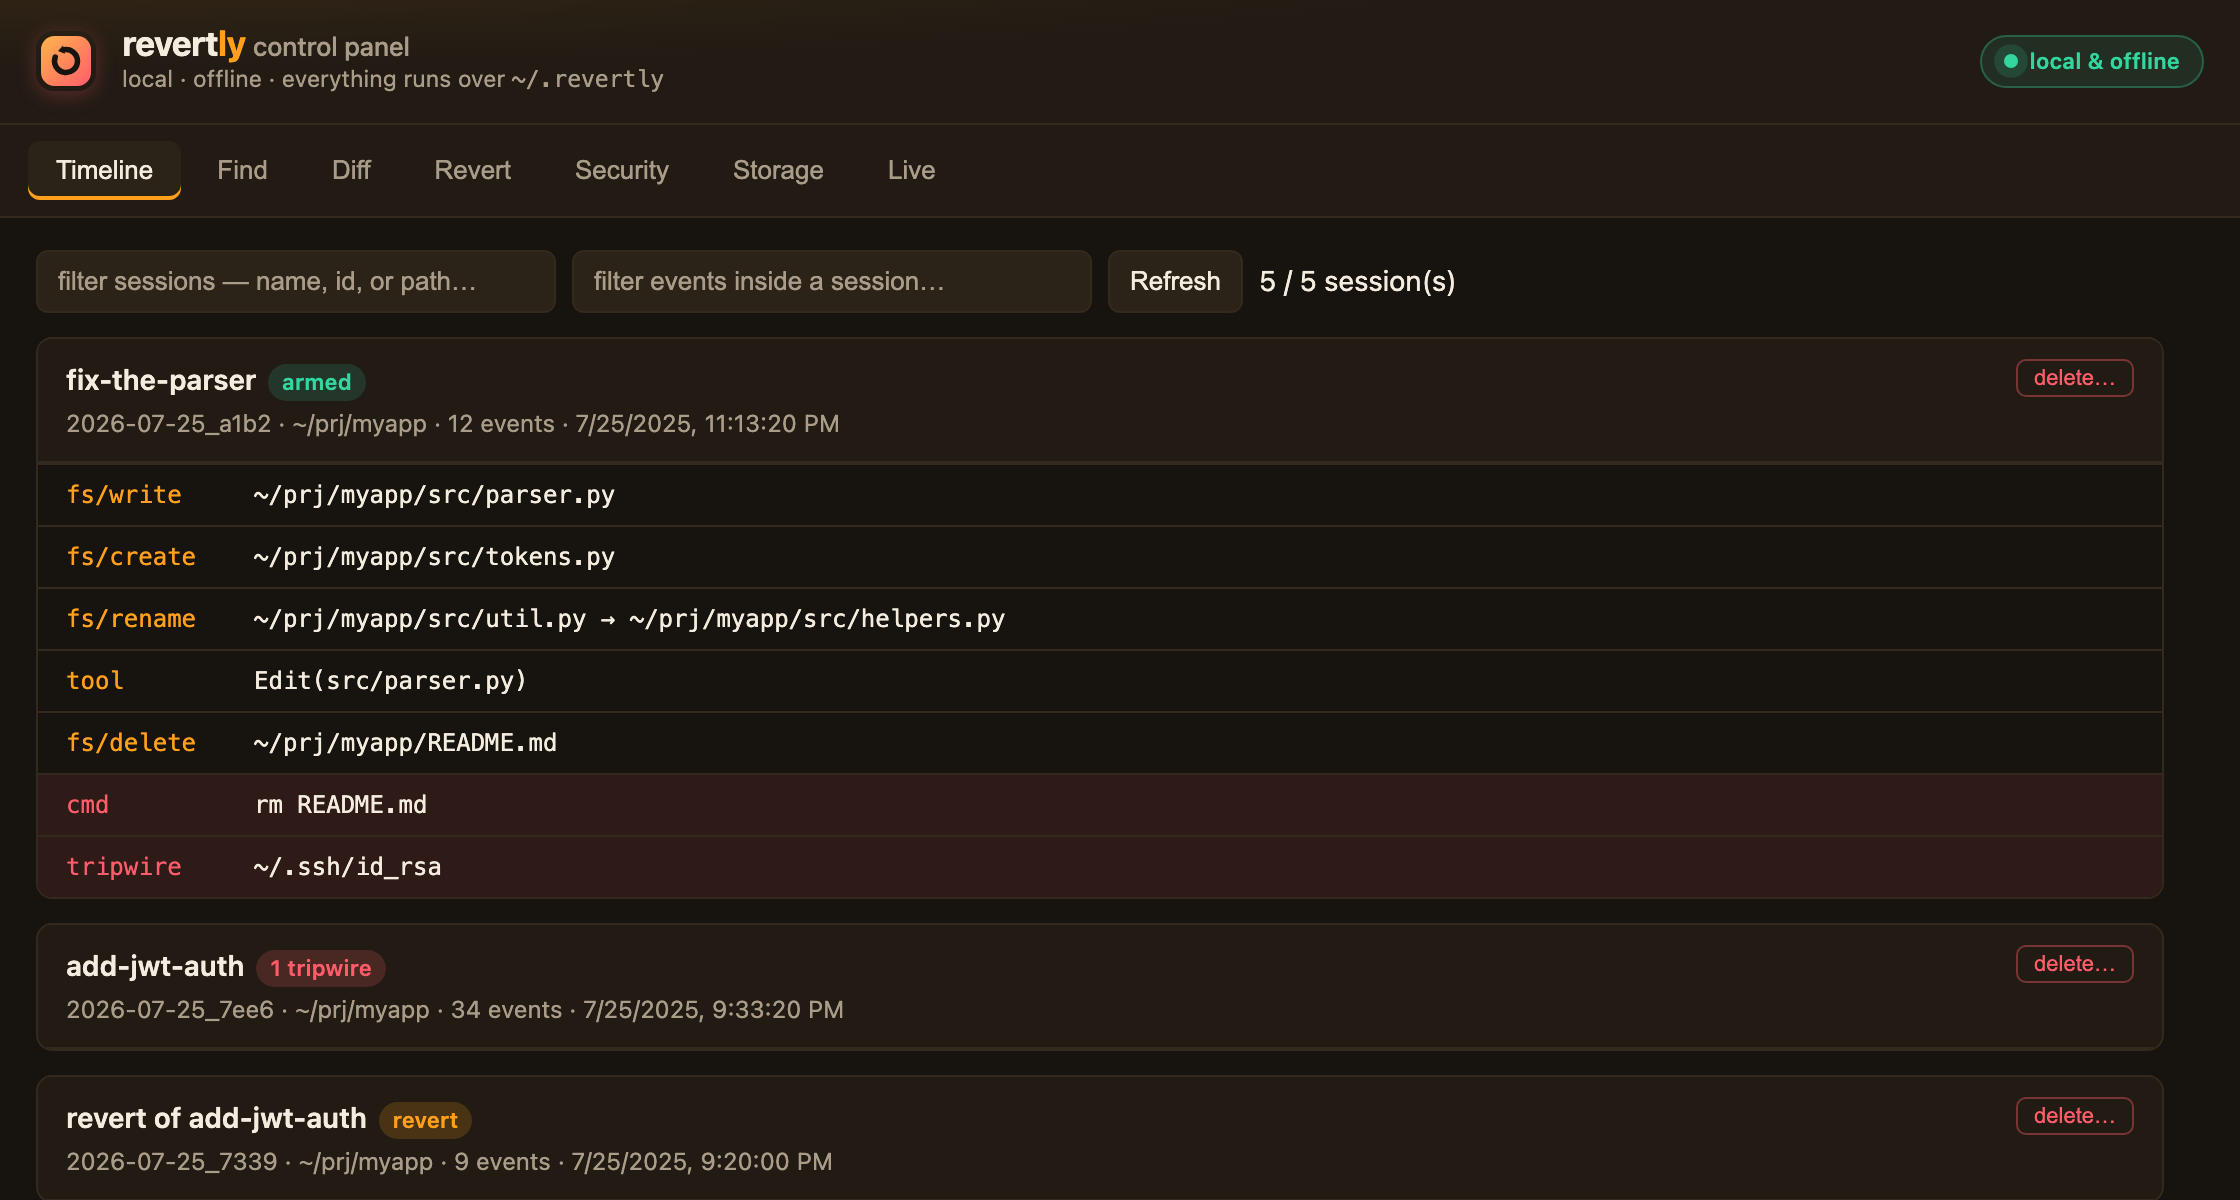
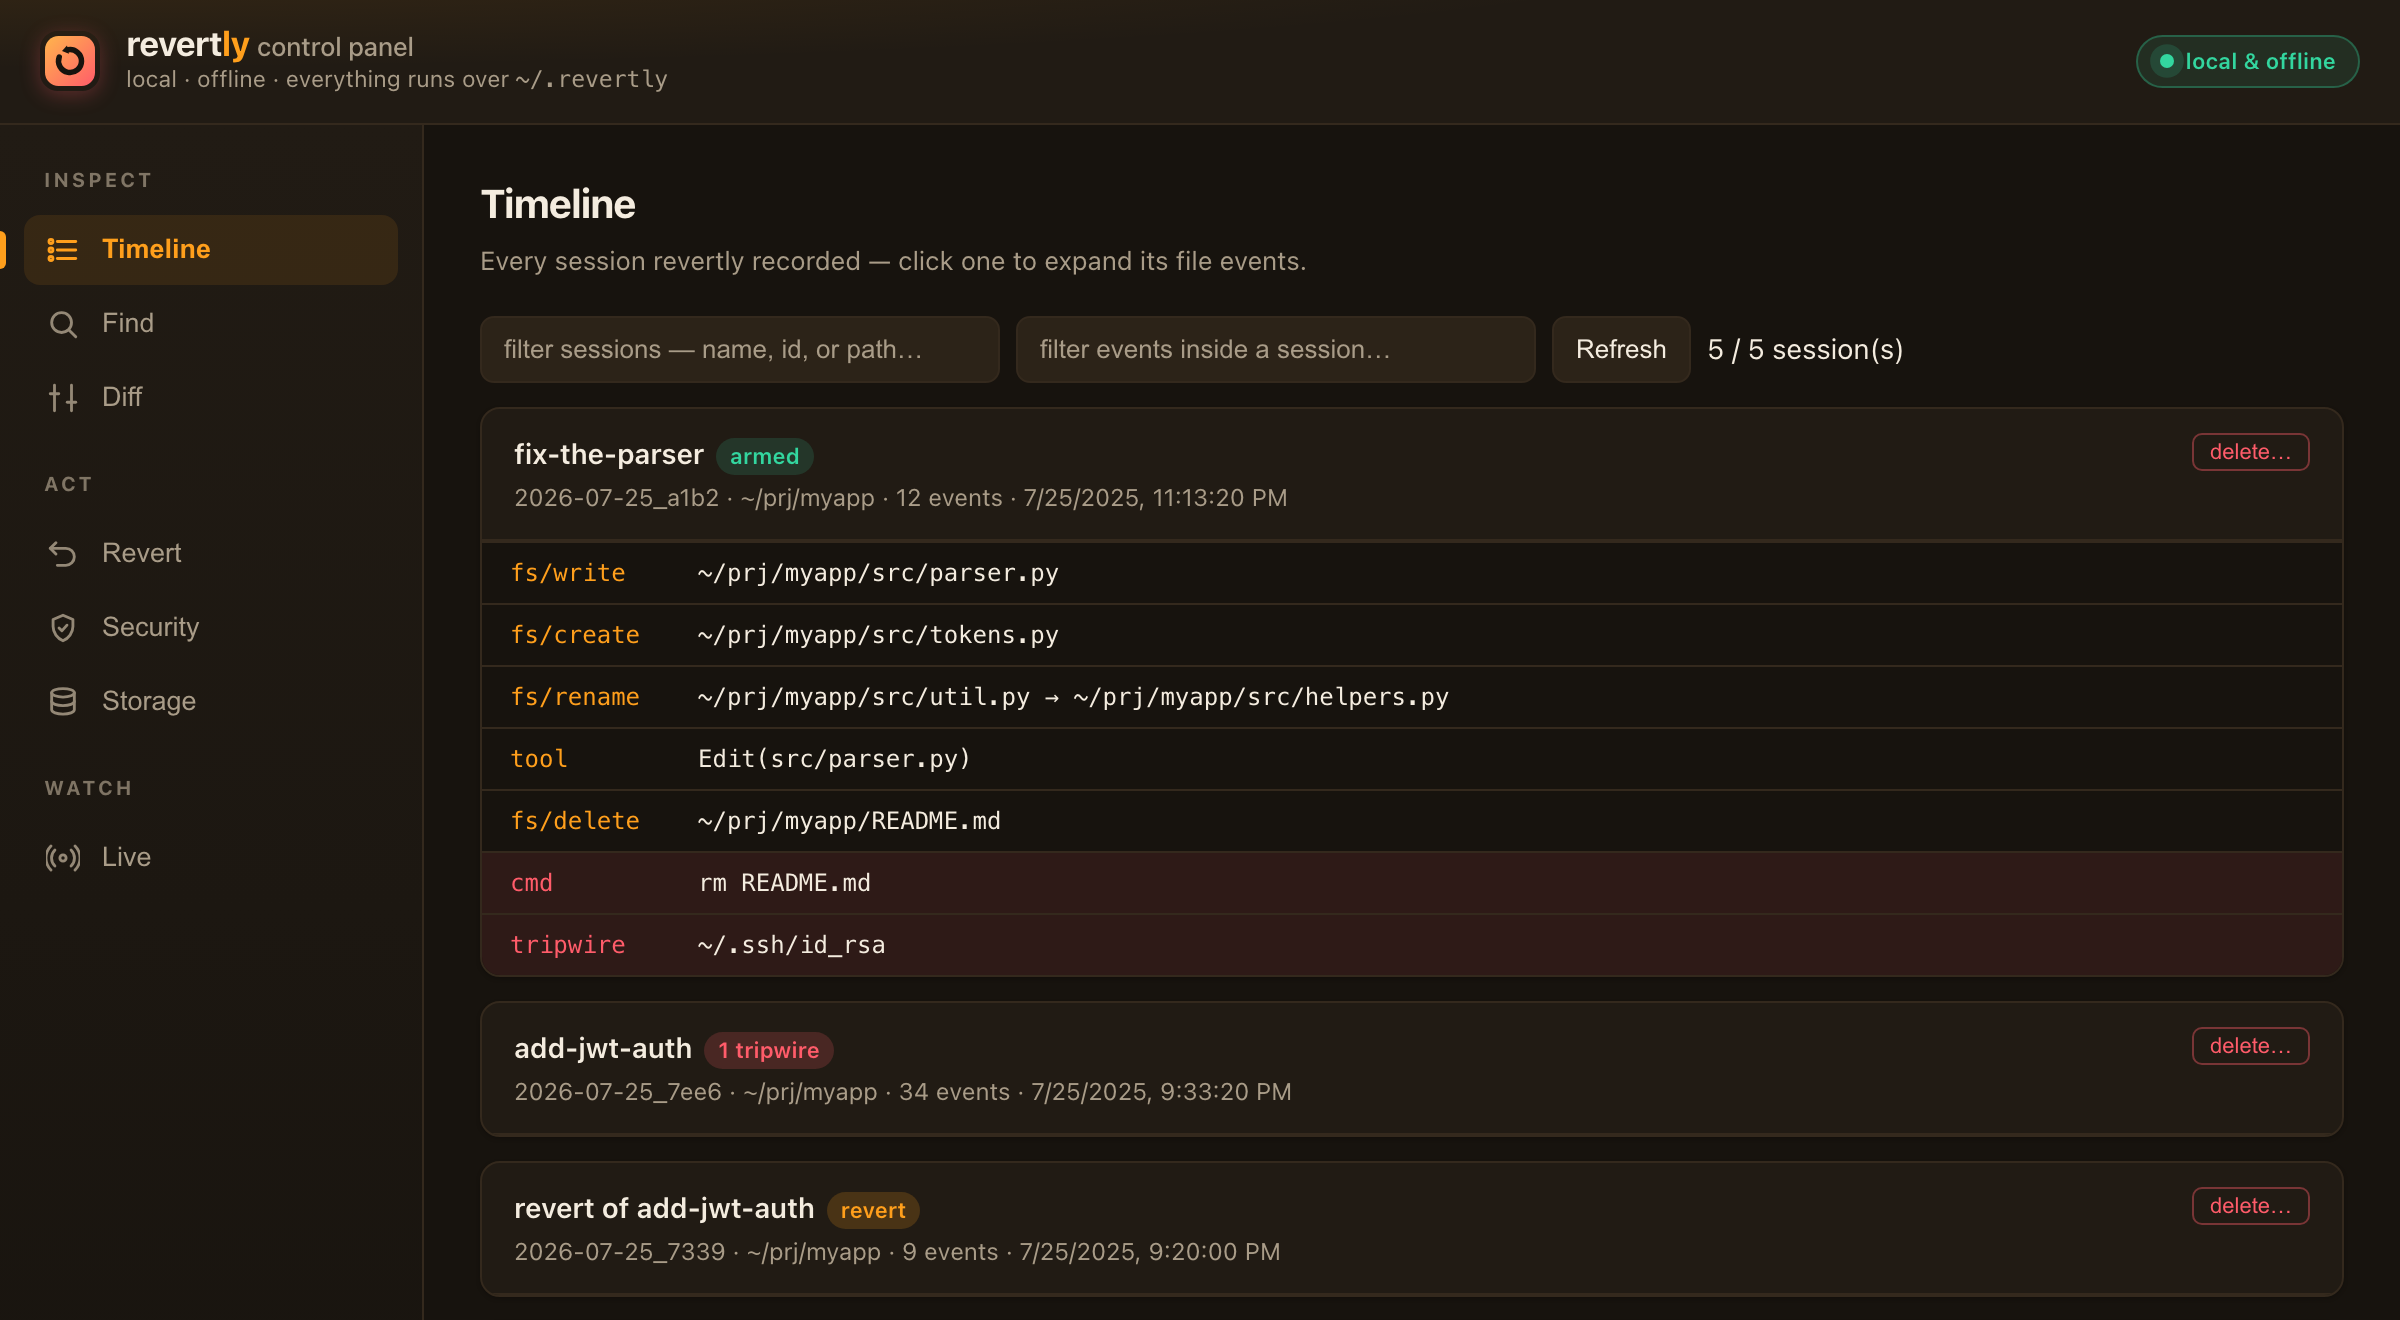
UI: professional facelift — sidebar app shell + page headers
Beyond the palette rebrand, restructure the control panel to read like a
real product dashboard:

- left sidebar navigation grouped (Inspect / Act / Watch) with inline icons,
  amber active-accent, and a footer note; replaces the flat top-tab bar
- per-view page header (title + one-line description) driven by a PAGES map
- elevated cards, refined inputs/buttons with hover + focus states,
  custom scrollbars, selection color, font smoothing
- responsive: sidebar collapses to a scrollable top bar under 720px
- refresh docs/assets/panel.png to the new layout

Self-contained, no CDN. All 228 tests pass.

diff --git a/revertly/ui/index.html b/revertly/ui/index.html
@@ -18,9 +18,10 @@
     margin: 0; background: var(--bg); color: var(--fg);
     font: 14px/1.5 -apple-system, BlinkMacSystemFont, "Segoe UI", sans-serif;
   }
+  body { min-height: 100vh; display: flex; flex-direction: column; }
   header {
-    padding: 13px 18px; background: var(--panel); border-bottom: 1px solid var(--line);
-    display: flex; align-items: center; gap: 13px;
+    padding: 13px 20px; background: var(--panel); border-bottom: 1px solid var(--line);
+    display: flex; align-items: center; gap: 13px; position: sticky; top: 0; z-index: 20;
     background-image: radial-gradient(120% 160% at 0% -40%, rgba(255,159,28,.10), transparent 60%);
   }
   header .logo { width: 30px; height: 30px; border-radius: 9px; flex: none;
@@ -36,18 +37,44 @@
   header .pill .dot { width: 7px; height: 7px; border-radius: 50%; background: var(--ok);
     box-shadow: 0 0 0 0 rgba(51,214,159,.6); animation: pulsedot 2.2s ease-out infinite; }
   @keyframes pulsedot { 0% { box-shadow: 0 0 0 0 rgba(51,214,159,.55); } 70%,100% { box-shadow: 0 0 0 7px rgba(51,214,159,0); } }
-  nav { display: flex; gap: 4px; padding: 8px 14px; background: var(--panel); border-bottom: 1px solid var(--line); }
+
+  /* app shell: sidebar + content */
+  .shell { display: flex; flex: 1; align-items: stretch; }
+  nav { flex: none; width: 212px; padding: 16px 12px; border-right: 1px solid var(--line);
+    background: linear-gradient(180deg, var(--panel), var(--bg)); display: flex; flex-direction: column; gap: 2px; }
+  nav .navlabel { font-size: 10px; letter-spacing: 1.4px; text-transform: uppercase;
+    color: var(--muted); opacity: .7; padding: 4px 10px 8px; font-weight: 700; }
   nav button {
-    background: transparent; color: var(--muted); border: 0; padding: 7px 14px;
-    border-radius: 6px; cursor: pointer; font-size: 13px;
+    display: flex; align-items: center; gap: 11px; width: 100%; text-align: left;
+    background: transparent; color: var(--muted); border: 0; padding: 9px 11px;
+    border-radius: 8px; cursor: pointer; font-size: 13.5px; font-weight: 500;
+    position: relative;
   }
+  nav button svg { width: 17px; height: 17px; flex: none; stroke: currentColor; opacity: .85; }
   nav button:hover { color: var(--fg); background: var(--panel2); }
-  nav button.active { color: var(--fg); background: var(--panel2); box-shadow: inset 0 -2px 0 var(--accent); }
-  main { padding: 16px 18px; max-width: 1100px; }
+  nav button.active { color: var(--accent); background: rgba(255,159,28,.10); font-weight: 600; }
+  nav button.active::before { content: ""; position: absolute; left: -12px; top: 8px; bottom: 8px;
+    width: 3px; border-radius: 0 3px 3px 0; background: var(--accent); }
+  nav button.active svg { opacity: 1; }
+  .side-spacer { flex: 1; }
+  nav .navnote { padding: 10px; font-size: 11px; color: var(--muted); line-height: 1.5;
+    border-top: 1px solid var(--line); margin-top: 8px; }
+  main { flex: 1; padding: 24px 28px; max-width: 1120px; min-width: 0; }
+  .page-head { margin-bottom: 18px; }
+  .page-head h2 { margin: 0 0 4px; font-size: 20px; font-weight: 700; letter-spacing: -.3px; }
+  .page-head p { margin: 0; color: var(--muted); font-size: 13px; }
+  @media (max-width: 720px) {
+    .shell { flex-direction: column; }
+    nav { width: auto; flex-direction: row; overflow-x: auto; border-right: 0;
+      border-bottom: 1px solid var(--line); padding: 8px; }
+    nav .navlabel, nav .side-spacer, nav .navnote { display: none; }
+    nav button.active::before { display: none; }
+  }
   .tab { display: none; }
   .tab.active { display: block; }
-  .card { background: var(--panel); border: 1px solid var(--line); border-radius: 8px; margin: 0 0 12px; overflow: hidden; }
-  .row { padding: 10px 14px; border-bottom: 1px solid var(--line); cursor: pointer; }
+  .card { background: var(--panel); border: 1px solid var(--line); border-radius: 10px; margin: 0 0 12px;
+    overflow: hidden; box-shadow: 0 1px 2px rgba(0,0,0,.22); }
+  .row { padding: 12px 16px; border-bottom: 1px solid var(--line); cursor: pointer; transition: background .12s; }
   .row:last-child { border-bottom: 0; }
   .row:hover { background: var(--panel2); }
   .row .name { font-weight: 600; }
@@ -67,15 +94,16 @@
   .ev.flag .k { color: var(--alert); }
   select, input[type=text], button.act {
     background: var(--panel2); color: var(--fg); border: 1px solid var(--line);
-    border-radius: 6px; padding: 7px 10px; font-size: 13px;
+    border-radius: 7px; padding: 8px 11px; font-size: 13px;
   }
   input[type=text] { min-width: 260px; }
   input[type=text]::placeholder { color: var(--muted); }
   button.act { cursor: pointer; transition: border-color .12s, background .12s, color .12s; }
-  button.act:hover { border-color: var(--accent); }
+  button.act:hover { border-color: var(--accent); color: var(--fg); }
   select:focus, input[type=text]:focus { outline: none; border-color: var(--accent);
     box-shadow: 0 0 0 3px rgba(255,159,28,.14); }
   button.primary { background: var(--accent); color: #17130E; border-color: var(--accent); font-weight: 600; }
+  button.primary:hover { background: #FFB54C; border-color: #FFB54C; color: #17130E; }
   button.danger { background: transparent; color: var(--alert); border-color: rgba(255,92,106,.4); }
   button.danger:hover { border-color: var(--alert); }
   button.mini { padding: 2px 8px; font-size: 11px; border-radius: 5px; }
@@ -187,6 +215,15 @@
   .sec-row.fresh { animation: secfresh 2.4s ease-out; }
   @keyframes secfresh { 0% { background: rgba(255,159,28,.28); } 100% { background: transparent; } }
   #sec-stamp { color: var(--ok); }
+
+  /* finishing touches */
+  html { -webkit-font-smoothing: antialiased; text-rendering: optimizeLegibility; }
+  ::selection { background: rgba(255,159,28,.30); }
+  * { scrollbar-width: thin; scrollbar-color: var(--line) transparent; }
+  ::-webkit-scrollbar { width: 10px; height: 10px; }
+  ::-webkit-scrollbar-thumb { background: var(--panel2); border-radius: 8px; border: 2px solid var(--bg); }
+  ::-webkit-scrollbar-thumb:hover { background: var(--line); }
+  ::-webkit-scrollbar-track { background: transparent; }
 </style>
 
 <header>
@@ -204,17 +241,24 @@
   <span class="pill" title="Reading your local revertly store — nothing leaves this machine"><span class="dot"></span>local &amp; offline</span>
 </header>
 
+<div class="shell">
 <nav>
-  <button data-tab="timeline" class="active">Timeline</button>
-  <button data-tab="find">Find</button>
-  <button data-tab="diff">Diff</button>
-  <button data-tab="revert">Revert</button>
-  <button data-tab="security">Security</button>
-  <button data-tab="storage">Storage</button>
-  <button data-tab="live">Live</button>
+  <div class="navlabel">Inspect</div>
+  <button data-tab="timeline" class="active"><svg viewBox="0 0 24 24" fill="none" stroke-width="2" stroke-linecap="round" stroke-linejoin="round"><line x1="8" y1="6" x2="21" y2="6"/><line x1="8" y1="12" x2="21" y2="12"/><line x1="8" y1="18" x2="21" y2="18"/><circle cx="3.5" cy="6" r="1.4"/><circle cx="3.5" cy="12" r="1.4"/><circle cx="3.5" cy="18" r="1.4"/></svg>Timeline</button>
+  <button data-tab="find"><svg viewBox="0 0 24 24" fill="none" stroke-width="2" stroke-linecap="round" stroke-linejoin="round"><circle cx="11" cy="11" r="7"/><line x1="21" y1="21" x2="16.2" y2="16.2"/></svg>Find</button>
+  <button data-tab="diff"><svg viewBox="0 0 24 24" fill="none" stroke-width="2" stroke-linecap="round" stroke-linejoin="round"><line x1="6" y1="3" x2="6" y2="21"/><line x1="18" y1="3" x2="18" y2="21"/><line x1="3" y1="9" x2="9" y2="9"/><line x1="15" y1="15" x2="21" y2="15"/></svg>Diff</button>
+  <div class="navlabel" style="margin-top:12px">Act</div>
+  <button data-tab="revert"><svg viewBox="0 0 24 24" fill="none" stroke-width="2" stroke-linecap="round" stroke-linejoin="round"><path d="M3 8h11a6 6 0 0 1 0 12H8"/><polyline points="7 4 3 8 7 12"/></svg>Revert</button>
+  <button data-tab="security"><svg viewBox="0 0 24 24" fill="none" stroke-width="2" stroke-linecap="round" stroke-linejoin="round"><path d="M12 3l7 3v5c0 4.4-3 8.3-7 10-4-1.7-7-5.6-7-10V6z"/><path d="M9.2 12l2 2 3.6-4"/></svg>Security</button>
+  <button data-tab="storage"><svg viewBox="0 0 24 24" fill="none" stroke-width="2" stroke-linecap="round" stroke-linejoin="round"><ellipse cx="12" cy="5.5" rx="8" ry="3"/><path d="M4 5.5v6c0 1.7 3.6 3 8 3s8-1.3 8-3v-6"/><path d="M4 11.5v6c0 1.7 3.6 3 8 3s8-1.3 8-3v-6"/></svg>Storage</button>
+  <div class="navlabel" style="margin-top:12px">Watch</div>
+  <button data-tab="live"><svg viewBox="0 0 24 24" fill="none" stroke-width="2" stroke-linecap="round" stroke-linejoin="round"><circle cx="12" cy="12" r="2.2"/><path d="M6.3 6.3a8 8 0 0 0 0 11.4M17.7 6.3a8 8 0 0 1 0 11.4"/><path d="M3.5 3.5a12 12 0 0 0 0 17M20.5 3.5a12 12 0 0 1 0 17"/></svg>Live</button>
+  <div class="side-spacer"></div>
+  <div class="navnote">Every action here maps to a <b style="color:var(--fg)">revertly</b> CLI command. Nothing leaves this machine.</div>
 </nav>
 
 <main>
+  <div class="page-head"><h2 id="page-title">Timeline</h2><p id="page-sub"></p></div>
   <section id="tab-timeline" class="tab active">
     <div class="toolbar">
       <input type="text" id="tl-filter" placeholder="filter sessions — name, id, or path…">
@@ -242,7 +286,6 @@
   </section>
 
   <section id="tab-diff" class="tab">
-    <div class="sub" style="margin-bottom:10px">Compare any file a session changed — its pre-image (before the session) against the current version on disk. Click a file to see its diff.</div>
     <div class="toolbar">
       <label class="field"><span>Session</span><select id="diff-session"></select></label>
       <input type="text" id="diff-filter" placeholder="filter changed files…" style="flex:1;min-width:200px;align-self:flex-end">
@@ -253,7 +296,6 @@
   </section>
 
   <section id="tab-revert" class="tab">
-    <div class="sub" style="margin-bottom:10px">Undo a session's changes — tick the files to restore (each row can be viewed/downloaded first), preview, then revert. Non-destructive: the revert is itself a session you can undo.</div>
     <div class="toolbar">
       <label class="field"><span>Session</span><select id="rev-session"></select></label>
       <input type="text" id="rev-filter" placeholder="filter paths…" style="align-self:flex-end">
@@ -267,7 +309,6 @@
   </section>
 
   <section id="tab-security" class="tab">
-    <div class="sub" style="margin-bottom:10px">Everything security-relevant across all sessions — secret reads, suspicious/blocked commands, tripwires, self-tamper, and disable/bypass actions. The instant something fires, it lands here.</div>
     <div id="sec-tiles" class="toolbar" style="gap:10px"></div>
     <div class="toolbar">
       <input type="text" id="sec-filter" placeholder="filter — text, session, kind…" style="flex:1;min-width:200px">
@@ -305,6 +346,7 @@
     <div id="live-list"></div>
   </section>
 </main>
+</div>
 
 <footer>
   <b>revertly</b> <span class="sep">·</span> a seatbelt for AI coding agents, not a cage
@@ -381,6 +423,20 @@ function uiAlert(opts){
 }
 
 // ---- tabs ----
+var PAGES = {
+  timeline: ["Timeline", "Every session revertly recorded — click one to expand its file events."],
+  find:     ["Find across sessions", "Search every session for a path or pattern, then jump straight to it."],
+  diff:     ["Diff", "Compare any file a session changed — its pre-image vs the version on disk now."],
+  revert:   ["Revert", "Undo a session's changes — preview first; every revert is itself a session you can undo."],
+  security: ["Security", "Secret reads, suspicious commands, tripwires and tamper — the instant they fire."],
+  storage:  ["Storage", "What the pre-image clones cost on disk, and how to clear history at a safe point."],
+  live:     ["Live", "Sessions currently armed, refreshing every 2 seconds."]
+};
+function setPageHead(name) {
+  var p = PAGES[name]; if (!p) return;
+  document.getElementById("page-title").textContent = p[0];
+  document.getElementById("page-sub").textContent = p[1];
+}
 var navButtons = document.querySelectorAll("nav button");
 navButtons.forEach(function(btn){
   btn.addEventListener("click", function(){
@@ -388,12 +444,14 @@ navButtons.forEach(function(btn){
     btn.classList.add("active");
     document.querySelectorAll(".tab").forEach(function(t){ t.classList.remove("active"); });
     document.getElementById("tab-" + btn.dataset.tab).classList.add("active");
+    setPageHead(btn.dataset.tab);
     if (btn.dataset.tab === "diff" || btn.dataset.tab === "revert") populateSessionPickers();
     if (btn.dataset.tab === "storage") loadStorage();
     if (btn.dataset.tab === "security") loadSecurity();
     try { history.replaceState(null, "", "#" + btn.dataset.tab); } catch (e) {}
   });
 });
+setPageHead("timeline");
 function switchTab(name) {
   navButtons.forEach(function(b){ if (b.dataset.tab === name) b.click(); });
 }
